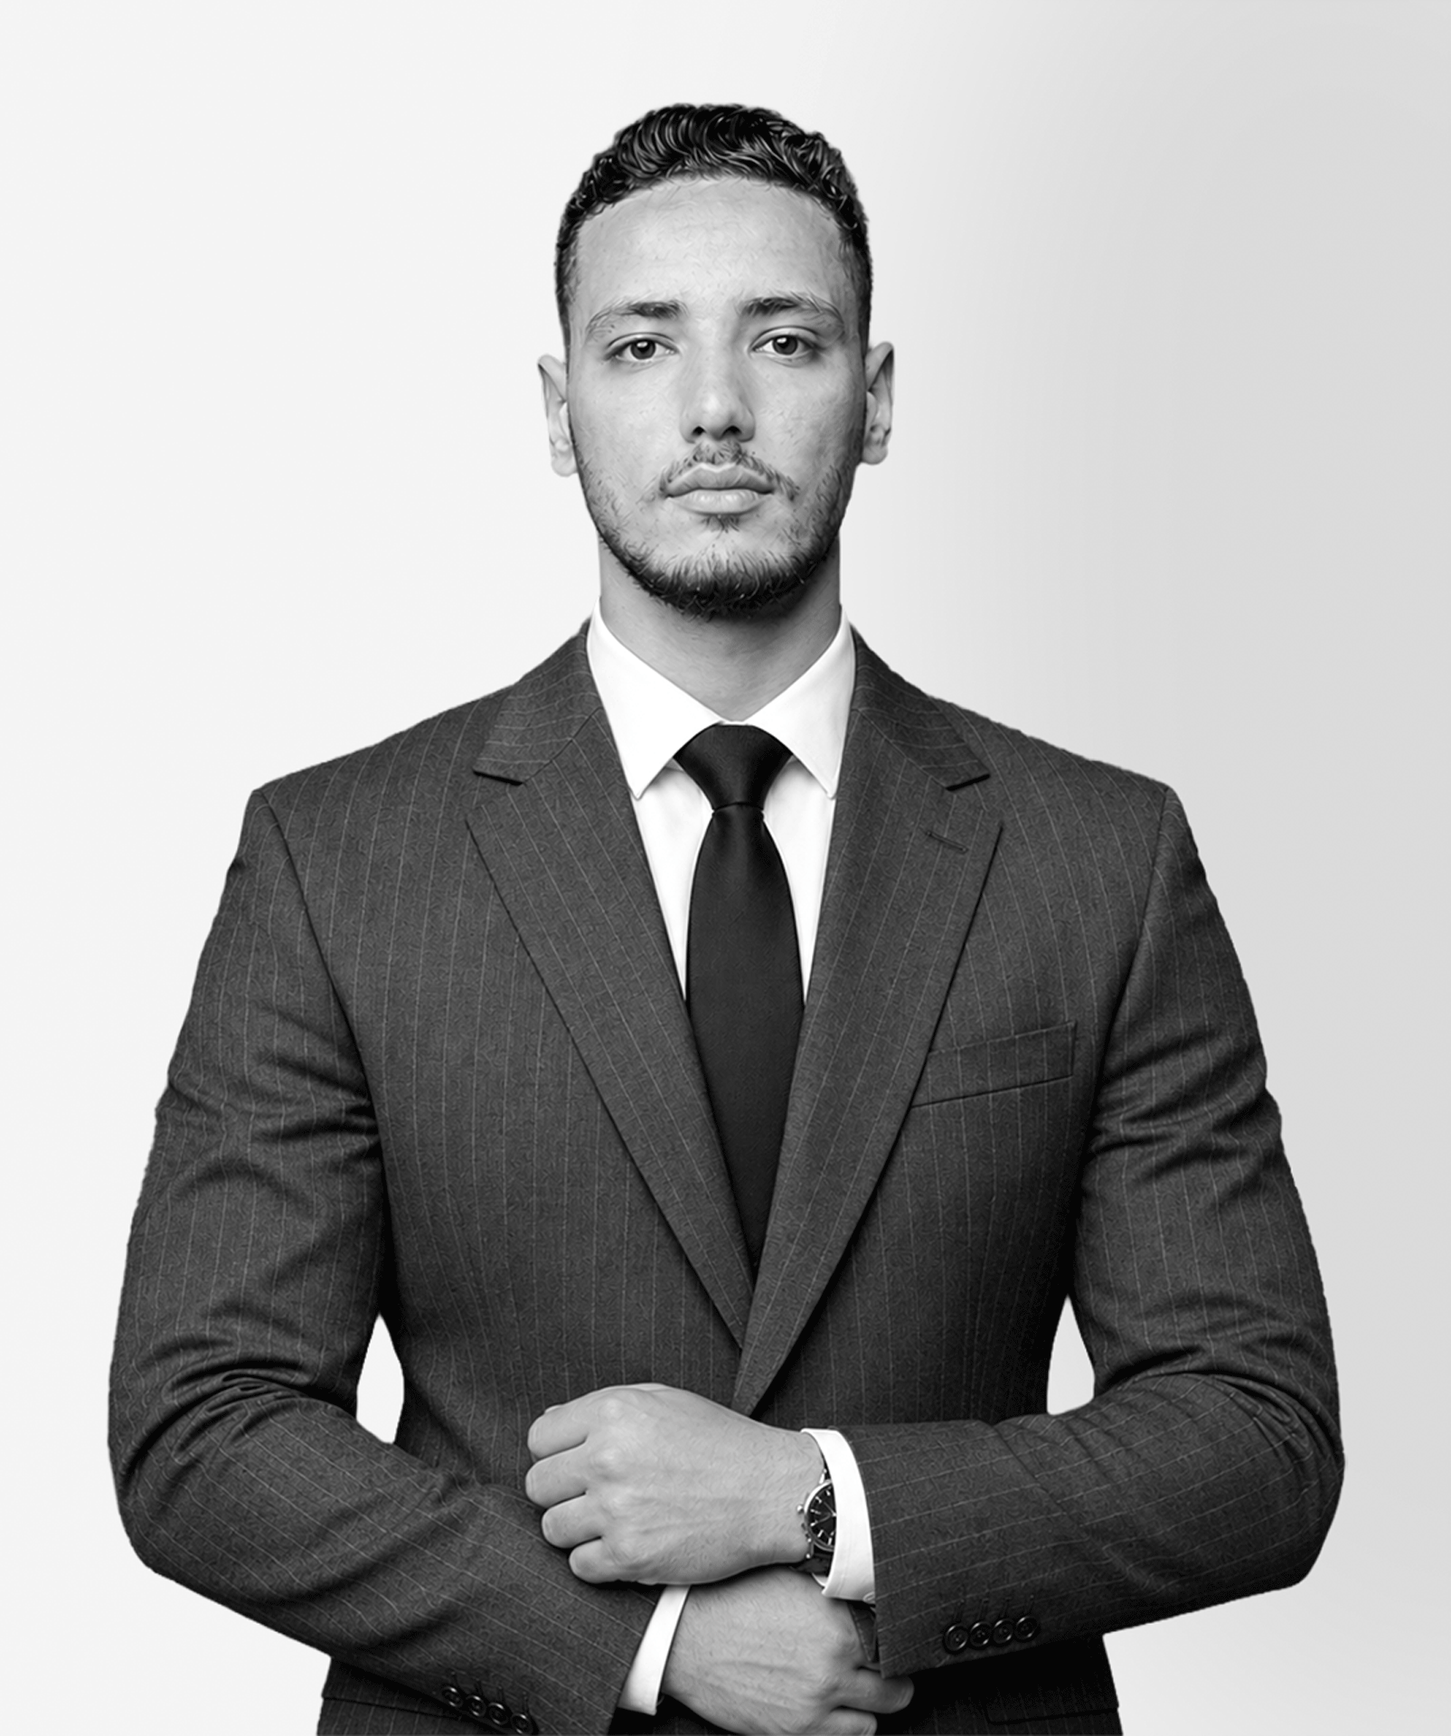
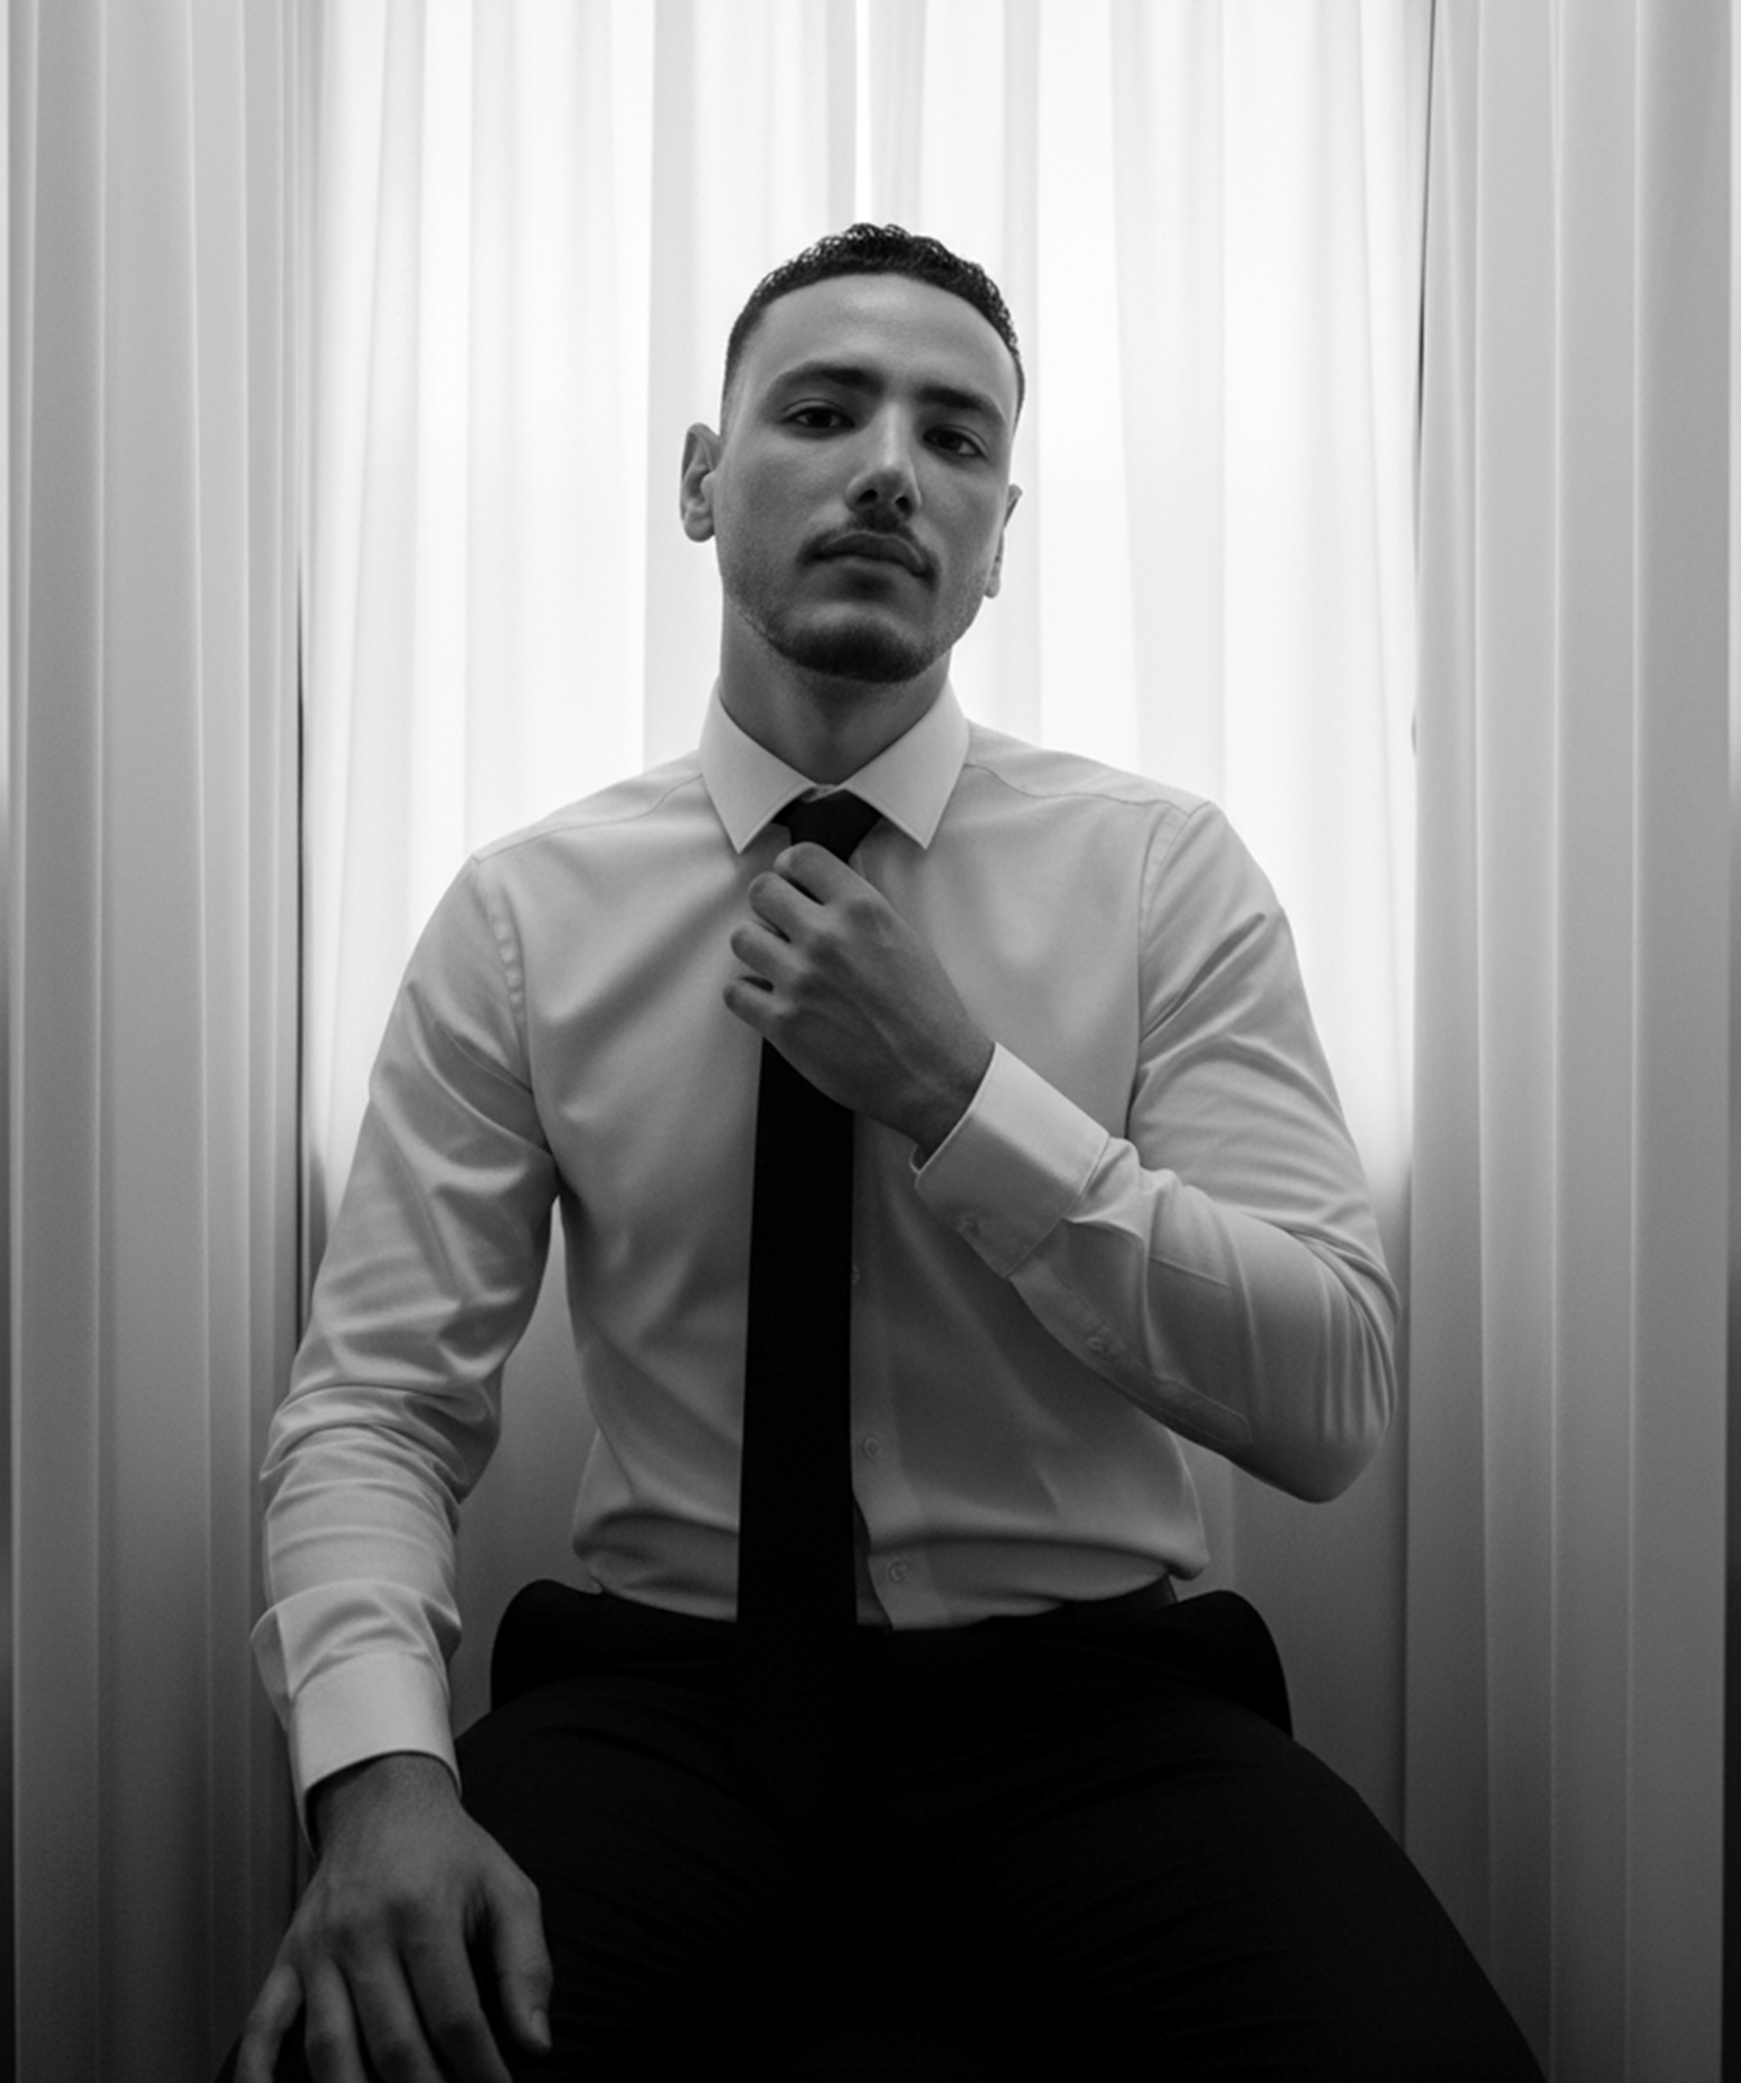
finally edit about

diff --git a/src/pages/About/About.tsx b/src/pages/About/About.tsx
@@ -86,10 +86,11 @@ export default function About() {
                 lg:text-[38px]
               "
             >
-              I’m Mahmoud El-Dahshan, a Brand Strategist with diverse experience in the field.
-               I began my career as a designer before gradually transitioning into a role deeply focused on strategy,
-                expanding my perspective from designing brand identities to understanding the thinking,
-                 principles, and strategy behind them.
+              I’m Mahmoud El-Dahshan, a Brand Strategist with diverse
+              experience in the field. I began my career as a designer before
+              gradually transitioning into a role deeply focused on strategy,
+              expanding my perspective from designing brand identities to
+              understanding the thinking, principles, and strategy behind them.
             </p>
 
             <p
@@ -115,78 +116,78 @@ export default function About() {
           </div>
 
           {/* Image */}
-<div
-  className="
-    w-full
-    max-w-[700px]
-    overflow-hidden
-    rounded-xl
-    md:mx-auto
-    lg:mx-0
-    lg:ml-auto
-  "
->
-  <img
-    src={MahmoudImage}
-    alt="Mahmoud El-Dahshan"
-    className="
-      block
-      h-auto
-      w-full
-      object-contain
-    "
-  />
-</div>
+          <div
+            className="
+              w-full
+              max-w-[700px]
+              overflow-hidden
+              rounded-xl
+              md:mx-auto
+              lg:mx-0
+              lg:ml-auto
+            "
+          >
+            <img
+              src={MahmoudImage}
+              alt="Mahmoud El-Dahshan"
+              className="
+                block
+                h-auto
+                w-full
+                object-contain
+              "
+            />
+          </div>
         </div>
       </section>
 
-{/* =========================
-    HOW I THINK
-========================= */}
+      {/* =========================
+          HOW I THINK
+      ========================= */}
 
-<section className="w-full px-5 py-2 sm:px-6 sm:py-10 md:px-10 md:py-14 lg:px-16 lg:py-18">
-  <div className="mx-auto max-w-[1500px]">
-    <div className="max-w-[1100px]">
-      <p
-        className="
-          max-w-[900px]
-          font-sans
-          text-lg
-          leading-[1.4]
-          tracking-[-0.02em]
-          text-black/60
-          sm:mt-8
-          sm:text-xl
-          md:text-2xl
-        "
-      >
-        Today I work at the intersection of brand thinking, business
-        understanding, market analysis, and creative direction, with
-        experience across Egypt, Saudi Arabia, the UAE, and other markets
-        in the region.
-      </p>
+      <section className="w-full px-5 py-2 sm:px-6 sm:py-10 md:px-10 md:py-14 lg:px-16 lg:py-18">
+        <div className="mx-auto max-w-[1500px]">
+          <div className="max-w-[1100px]">
+            <p
+              className="
+                max-w-[900px]
+                font-sans
+                text-lg
+                leading-[1.4]
+                tracking-[-0.02em]
+                text-black/60
+                sm:mt-8
+                sm:text-xl
+                md:text-2xl
+              "
+            >
+              Today I work at the intersection of brand thinking, business
+              understanding, market analysis, and creative direction, with
+              experience across Egypt, Saudi Arabia, the UAE, and other markets
+              in the region.
+            </p>
 
-      <p
-        className="
-          max-w-[900px]
-          font-sans
-          text-lg
-          leading-[1.4]
-          tracking-[-0.02em]
-          text-black/60
-          sm:mt-8
-          sm:text-xl
-          md:text-2xl
-        "
-      >
-        My path is a little different — I studied Electrical Power and
-        Machines Engineering. That analytical foundation now shapes how
-        I work: understanding systems, identifying problems, and looking
-        for structured solutions rather than isolated fixes.
-      </p>
-    </div>
-  </div>
-</section>
+            <p
+              className="
+                max-w-[900px]
+                font-sans
+                text-lg
+                leading-[1.4]
+                tracking-[-0.02em]
+                text-black/60
+                sm:mt-8
+                sm:text-xl
+                md:text-2xl
+              "
+            >
+              My path is a little different — I studied Electrical Power and
+              Machines Engineering. That analytical foundation now shapes how
+              I work: understanding systems, identifying problems, and looking
+              for structured solutions rather than isolated fixes.
+            </p>
+          </div>
+        </div>
+      </section>
 
       {/* =========================
           CLOSING STATEMENT
@@ -261,9 +262,7 @@ export default function About() {
         >
           {/* Label */}
           <div>
-            <p
-              className="mb-10 font-sans text-xl uppercase md:text-2xl font-medium" 
-            >
+            <p className="mb-10 font-sans text-xl font-medium uppercase md:text-2xl">
               (My Approach)
             </p>
           </div>
@@ -382,9 +381,7 @@ export default function About() {
         >
           {/* Label */}
           <div>
-            <p
-              className="mb-10 font-sans text-xl uppercase md:text-2xl font-medium"
-            >
+            <p className="mb-10 font-sans text-xl font-medium uppercase md:text-2xl">
               (Behind the Strategy)
             </p>
           </div>
@@ -469,8 +466,128 @@ export default function About() {
           </div>
         </div>
       </section>
+
       <PageMarqueReverse title="Journey" />
       <PageMarqueeTwo title="Journey" />
+
+      {/* =========================
+          SECTION CLOSING
+      ========================= */}
+
+      <section className="w-full px-5 py-2 sm:px-6 sm:py-10 md:px-10 md:py-14 lg:px-16 lg:py-18">
+        <div className="mx-auto max-w-[1500px]">
+          <div className="max-w-[1100px]">
+            <p
+              className="
+                font-sans
+                text-[25px]
+                leading-[1.15]
+                tracking-[-0.025em]
+                sm:text-[30px]
+                md:text-[38px]
+                lg:text-[48px]
+              "
+            >
+              My background sits between disciplines — design, strategy, and
+              analytical thinking — and I keep learning, because brands can't
+              stay relevant by standing still.
+            </p>
+
+            <p
+              className="
+                max-w-[900px]
+                font-sans
+                text-lg
+                leading-[1.4]
+                tracking-[-0.02em]
+                text-black/60
+                sm:mt-8
+                sm:text-xl
+                md:text-2xl
+              "
+            >
+              What's stayed constant is this: I don't want to build brands
+              around ideas that only look good on the surface. I want to
+              understand what makes a brand matter and what it needs to become
+              stronger — because building a brand is really about building a
+              foundation strong enough to support what comes after it.
+            </p>
+          </div>
+        </div>
+
+        {/* Final Statement + CTA */}
+        <div
+          className="
+            mx-auto
+            flex
+            max-w-[1500px]
+            flex-col
+            gap-8
+            pt-6
+            lg:flex-row
+            lg:items-end
+            lg:justify-between
+            lg:gap-12
+          "
+        >
+          <p
+            className="
+              max-w-[1200px]
+              font-serif
+              text-[50px]
+              leading-[0.92]
+              tracking-[-0.045em]
+              sm:text-[62px]
+              md:text-[70px]
+              lg:text-[96px]
+              xl:text-[120px]
+            "
+          >
+            That is where my work begins.
+          </p>
+
+          <a
+            href="/contact"
+            className="
+              group
+              inline-flex
+              shrink-0
+              items-center
+              gap-3
+              self-start
+              border-b
+              border-black
+              pb-2
+              font-sans
+              text-lg
+              font-medium
+              tracking-[-0.02em]
+              text-black
+              transition-all
+              duration-300
+              hover:gap-5
+              lg:mb-2
+              lg:self-auto
+              sm:text-xl
+              md:text-2xl
+            "
+          >
+            <span>Get in Touch</span>
+
+            <span
+              aria-hidden="true"
+              className="
+                inline-block
+                transition-transform
+                duration-300
+                group-hover:translate-x-1
+              "
+            >
+              →
+            </span>
+          </a>
+        </div>
+      </section>
     </main>
   )
 }

diff --git a/src/pages/home/intro.tsx b/src/pages/home/intro.tsx
@@ -1,4 +1,4 @@
-import image from "../../assets/images/person.jpeg"
+import image from "../../assets/images/person.png"
 
 export default function Intro() {
 const scrollToFooter = () => {
